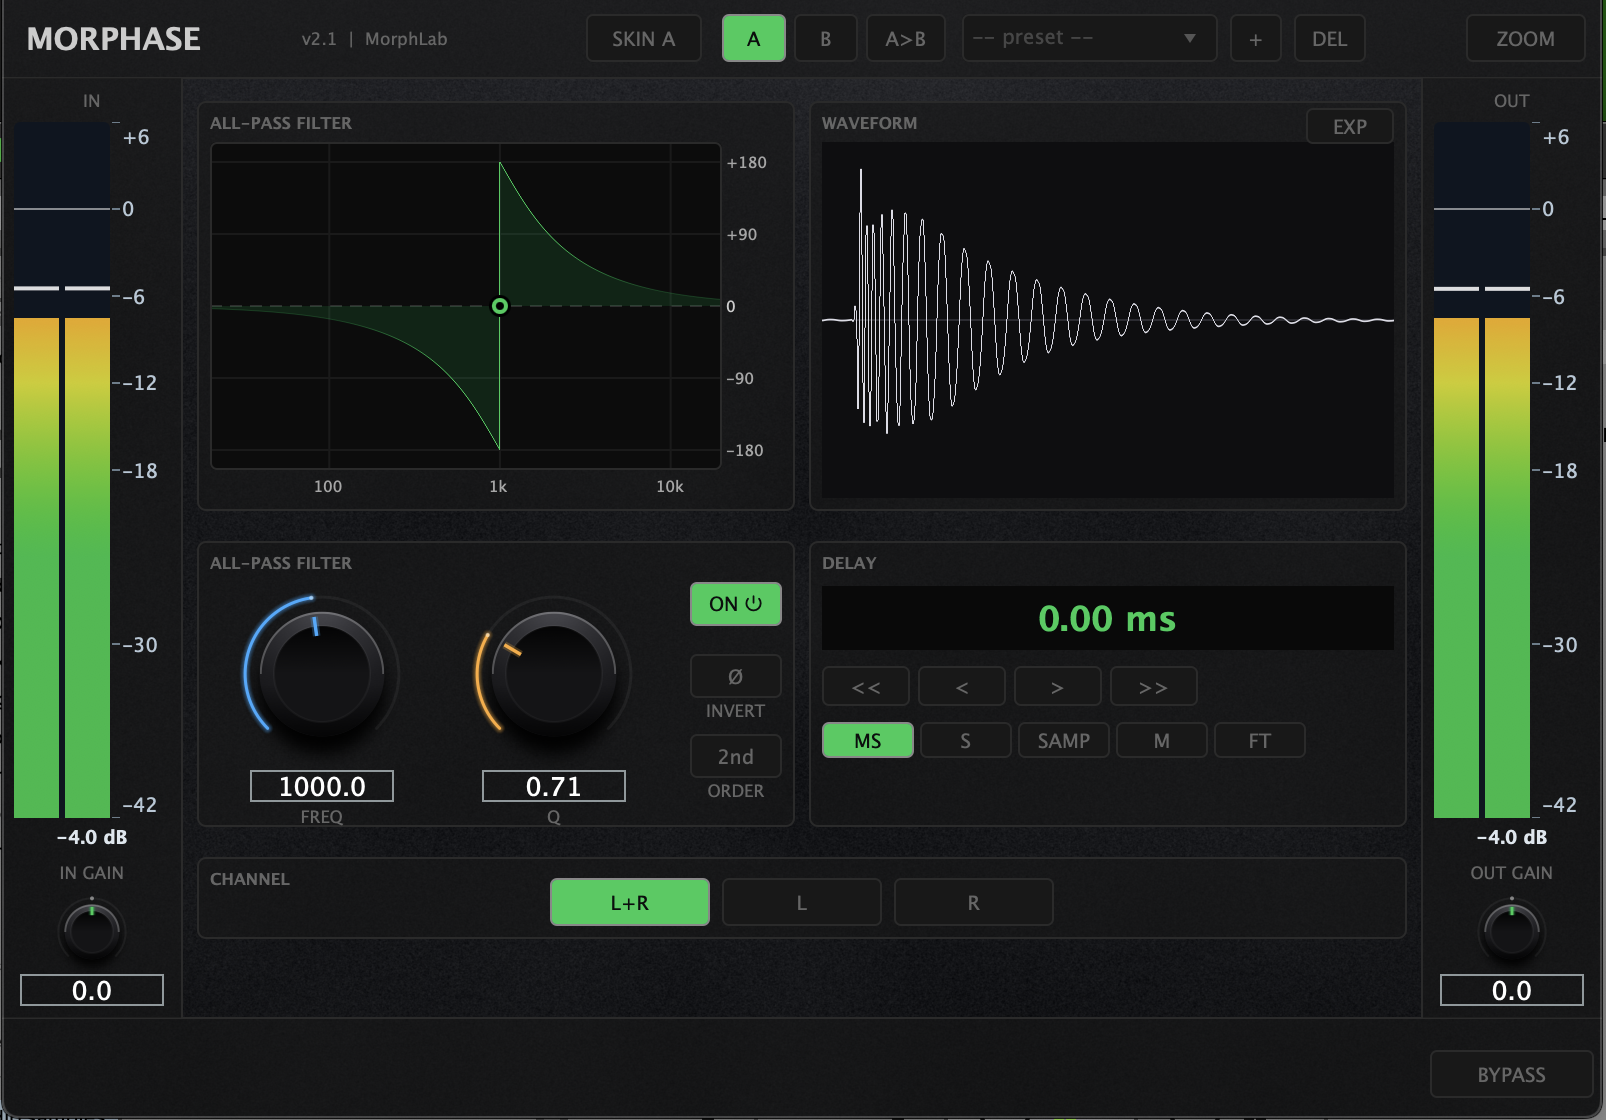
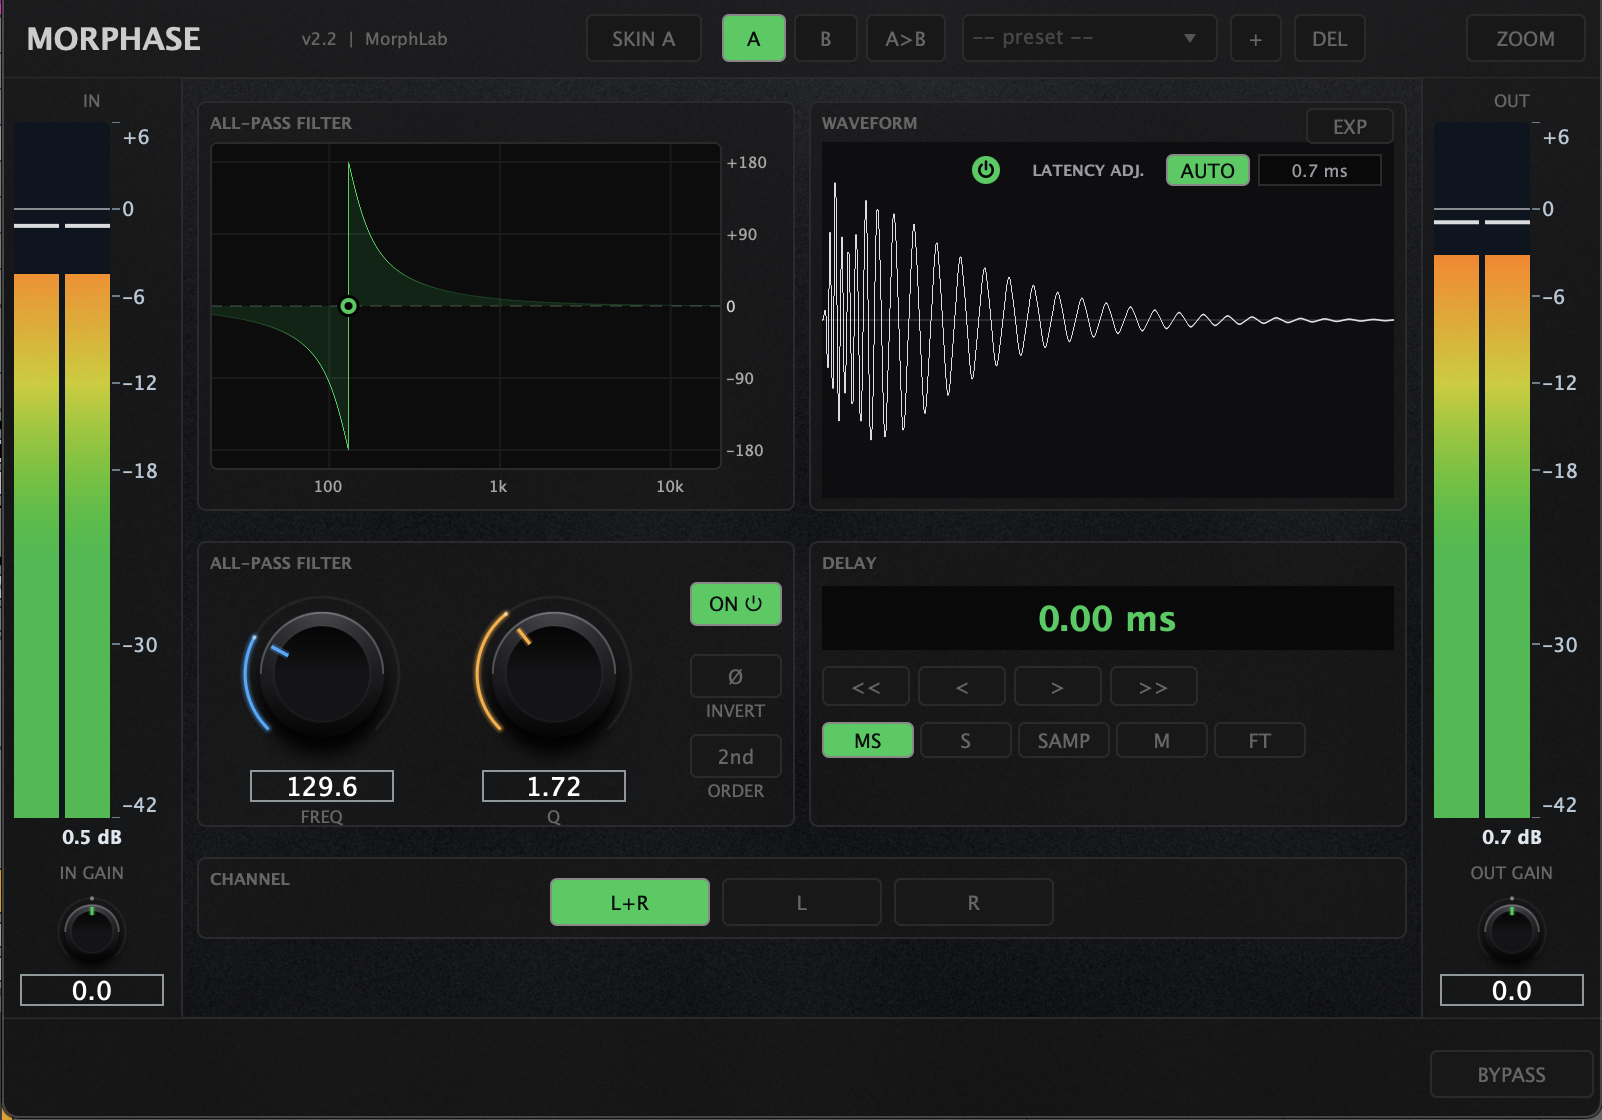
MorPhase 2.2: zoom 75-200%, LATENCY ADJ.; 2.1 in archivio
Claude-Session: https://claude.ai/code/session_012eAqbrFEpFriD9dML5nSwg

diff --git a/assets/site.js b/assets/site.js
@@ -31,8 +31,8 @@ const PRODUCTS = [
     released:"2026-10-31", older:[{ version:"2.4", released:"2026-10-05" }],
     tag:"Transient designer",
     text:"Two knobs, attack and sustain, driven by level-independent dual-envelope detection — no threshold to chase, no pumping. Parallel mix and a live shape meter. Zero latency." },
-  { id:"morphase", file:"MorPhase", name:"MorPhase", version:"2.1", group:"plugins",
-    released:"2026-10-05", older:[],
+  { id:"morphase", file:"MorPhase", name:"MorPhase", version:"2.2", group:"plugins",
+    released:"2026-10-31", older:[{ version:"2.1", released:"2026-10-05" }],
     tag:"All-pass phase tool",
     text:"Rotates phase with first- or second-order all-pass filters without touching the magnitude. Align kicks, layers and multi-mic recordings, and watch the result on a beat-locked waveform." },
   { id:"rx92", file:"RX92", name:"RX92", version:"2.2", group:"plugins",
